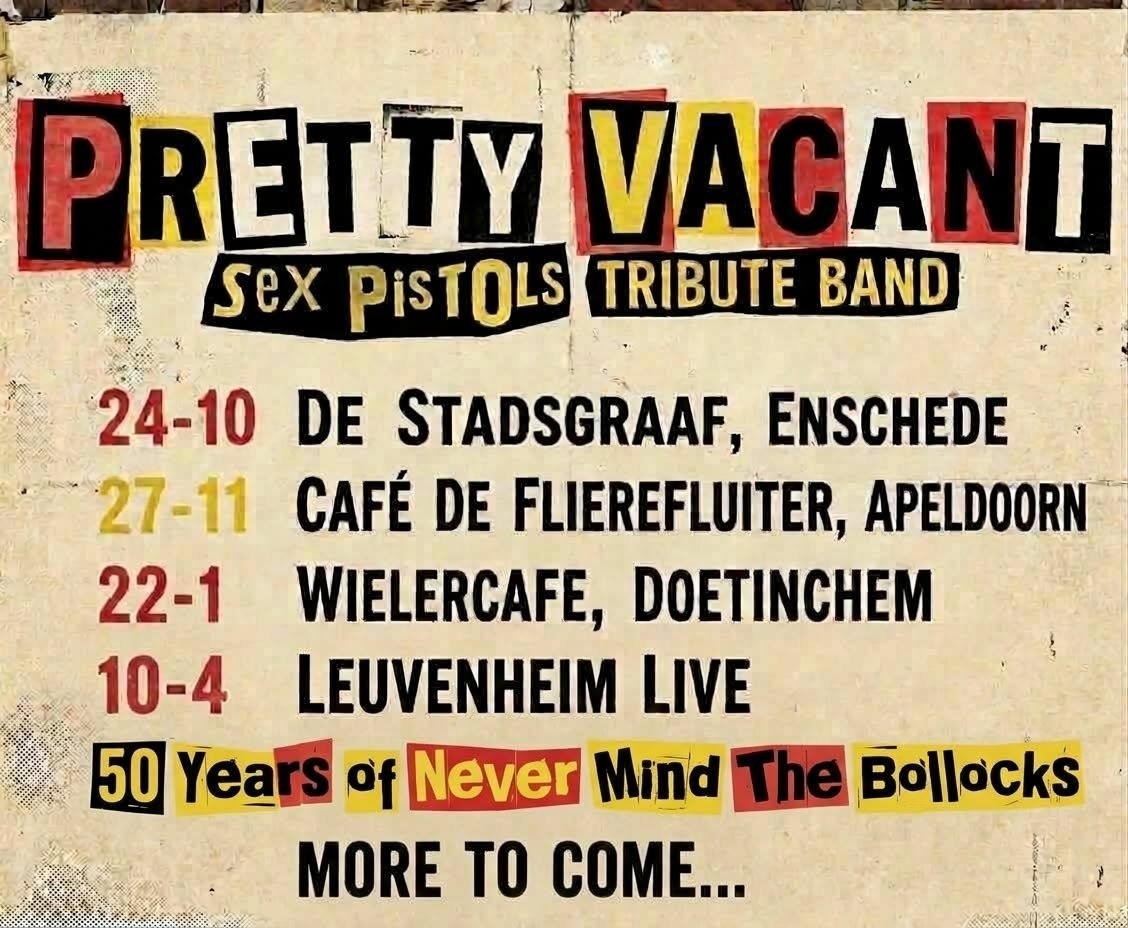
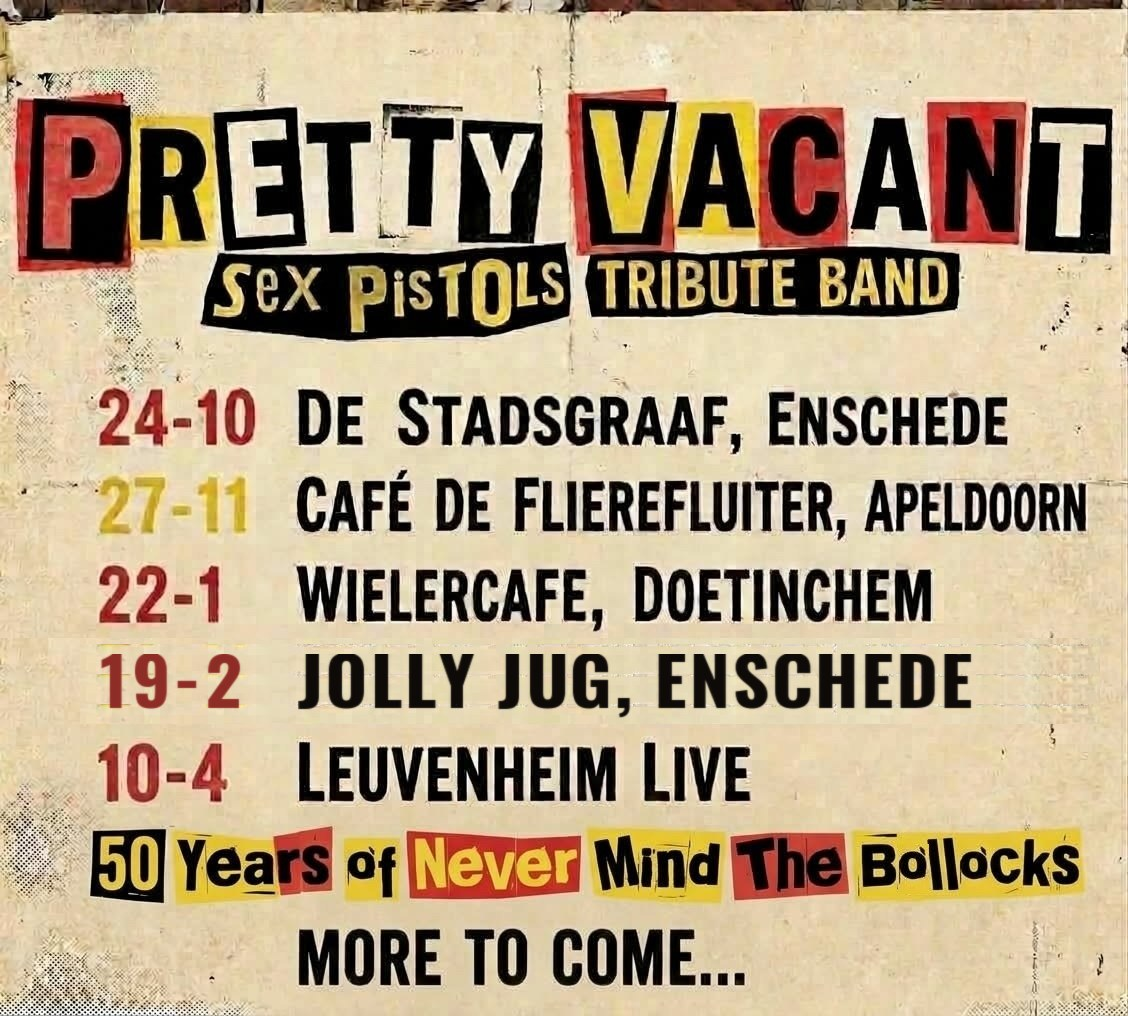
Tourposter: Jolly Jug, Enschede (19-2) toegevoegd
Claude-Session: https://claude.ai/code/session_019Kh8BqG95MsiKQvcQfBPxi

diff --git a/index.html b/index.html
@@ -48,7 +48,7 @@
 <link rel="preconnect" href="https://fonts.googleapis.com">
 <link rel="preconnect" href="https://fonts.gstatic.com" crossorigin>
 <link rel="stylesheet" href="https://fonts.googleapis.com/css2?family=Anton&family=Archivo:wght@400;600;800&family=Special+Elite&family=Tinos:wght@400;700&display=swap">
-<link rel="stylesheet" href="style.css?v=20261028b">
+<link rel="stylesheet" href="style.css?v=20261028c">
 </head>
 <body>
 
@@ -116,7 +116,7 @@
       </div>
       <figure class="tourposter">
         <button type="button" id="poster-knop" data-ta="aria-label:tour.poster" aria-label="Vergroot de tourposter">
-          <img src="img/tourposter.jpg" alt="Tourposter Pretty Vacant: 24-10 De Stadsgraaf Enschede, 27-11 Café De Flierefluiter Apeldoorn, 22-1 Wielercafé Doetinchem, 10-4 Leuvenheim Live" width="1128" height="928" loading="lazy">
+          <img src="img/tourposter.jpg?v=20261028c" alt="Tourposter Pretty Vacant: 24-10 De Stadsgraaf Enschede, 27-11 Café De Flierefluiter Apeldoorn, 22-1 Wielercafé Doetinchem, 19-2 Jolly Jug Enschede, 10-4 Leuvenheim Live" width="1128" height="1016" loading="lazy">
         </button>
       </figure>
     </div>
@@ -189,7 +189,7 @@
   <p id="lichtbak-tekst"></p>
 </dialog>
 
-<script src="gegevens.js?v=20261028b"></script>
-<script src="site.js?v=20261028b"></script>
+<script src="gegevens.js?v=20261028c"></script>
+<script src="site.js?v=20261028c"></script>
 </body>
 </html>
